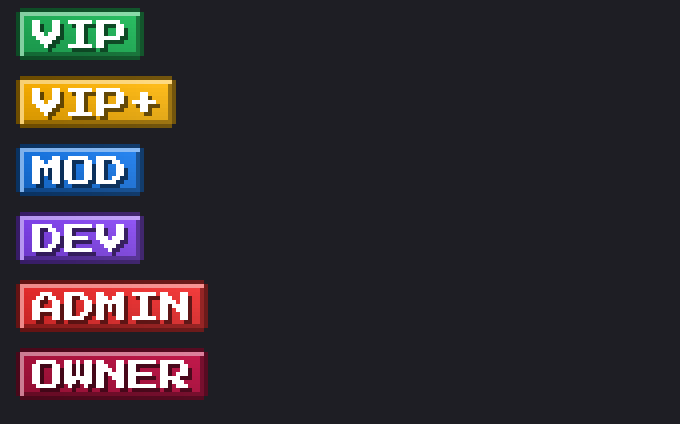
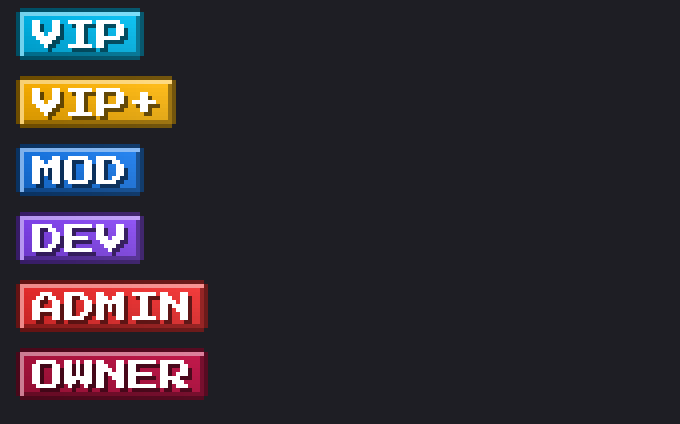
Core 1.9.0: /color con presets + placeholders; pack: VIP celeste

Changed region(s): [[0.0, 0.0, 0.2162, 0.1533]]

diff --git a/plugins/3y33Core/src/main/java/ar/com/tresyetres/core/Color.java b/plugins/3y33Core/src/main/java/ar/com/tresyetres/core/Color.java
@@ -1,0 +1,168 @@
+package ar.com.tresyetres.core;
+
+import org.bukkit.Bukkit;
+import org.bukkit.Material;
+import org.bukkit.Sound;
+import org.bukkit.configuration.file.YamlConfiguration;
+import org.bukkit.enchantments.Enchantment;
+import org.bukkit.entity.Player;
+import org.bukkit.event.EventHandler;
+import org.bukkit.event.Listener;
+import org.bukkit.event.inventory.InventoryClickEvent;
+import org.bukkit.event.inventory.InventoryDragEvent;
+import org.bukkit.inventory.Inventory;
+import org.bukkit.inventory.InventoryHolder;
+import org.bukkit.inventory.ItemFlag;
+import org.bukkit.inventory.ItemStack;
+import org.bukkit.inventory.meta.ItemMeta;
+import net.kyori.adventure.text.Component;
+import net.kyori.adventure.text.format.TextDecoration;
+import org.jetbrains.annotations.NotNull;
+
+import java.io.File;
+import java.io.IOException;
+import java.util.*;
+
+/** Color del nombre (solo VIP, VIP+ y staff). El tag de rango es siempre el mismo; esto cambia solo el degradado del nombre. */
+final class Color implements Listener {
+    record Preset(String id, String nombre, String a, String b, Material mat) { }
+
+    static final List<Preset> PRESETS = List.of(
+            new Preset("blanco", "Blanco", "#FFFFFF", "#D8D8D8", Material.WHITE_DYE),
+            new Preset("rojo", "Rojo", "#FF3B3B", "#FF9A9A", Material.RED_DYE),
+            new Preset("naranja", "Naranja", "#FF8C00", "#FFD27F", Material.ORANGE_DYE),
+            new Preset("dorado", "Dorado", "#F2A900", "#FFE07A", Material.YELLOW_DYE),
+            new Preset("lima", "Lima", "#7CD43A", "#D9FF8C", Material.LIME_DYE),
+            new Preset("verde", "Verde", "#1FA855", "#7CE8A5", Material.GREEN_DYE),
+            new Preset("celeste", "Celeste", "#00C8FF", "#B5FFFF", Material.LIGHT_BLUE_DYE),
+            new Preset("azul", "Azul", "#1670D9", "#6FB0FF", Material.BLUE_DYE),
+            new Preset("violeta", "Violeta", "#7B3FE4", "#C09CFF", Material.PURPLE_DYE),
+            new Preset("rosa", "Rosa", "#FF4FA3", "#FFB3D9", Material.PINK_DYE),
+            new Preset("atardecer", "Atardecer", "#FF512F", "#F09819", Material.ORANGE_DYE),
+            new Preset("oceano", "Océano", "#00C6FF", "#0072FF", Material.CYAN_DYE),
+            new Preset("aurora", "Aurora", "#00F5A0", "#7B3FE4", Material.GLOW_INK_SAC),
+            new Preset("fuego", "Fuego", "#F83600", "#FE8C00", Material.BLAZE_POWDER));
+
+    /** Color de rango por defecto (de mayor a menor), sale de un grupo de LuckPerms. */
+    private static final String[][] RANGOS = {
+            {"owner", "#A3123A", "#F0507A"}, {"admin", "#E02B2B", "#FF8A8A"}, {"dev", "#7B3FE4", "#C09CFF"},
+            {"moderador", "#1670D9", "#6FB0FF"}, {"vipplus", "#F2A900", "#FFE07A"}, {"vip", "#00C8FF", "#B5FFFF"}};
+
+    private final Core core;
+    private final File archivo;
+    private final Map<UUID, String> elegido = new HashMap<>();
+
+    Color(Core core) {
+        this.core = core;
+        archivo = new File(core.getDataFolder(), "colores.yml");
+        YamlConfiguration y = YamlConfiguration.loadConfiguration(archivo);
+        for (String k : y.getKeys(false)) {
+            try { elegido.put(UUID.fromString(k), y.getString(k)); } catch (IllegalArgumentException ignored) { }
+        }
+    }
+
+    private void guardar() {
+        YamlConfiguration y = new YamlConfiguration();
+        elegido.forEach((u, v) -> y.set(u.toString(), v));
+        try { y.save(archivo); } catch (IOException e) { core.getLogger().warning("No pude guardar colores.yml: " + e.getMessage()); }
+    }
+
+    private String[] rango(Player p) {
+        for (String[] r : RANGOS) if (p.hasPermission("group." + r[0])) return r;
+        return null;
+    }
+
+    boolean puede(Player p) { return rango(p) != null || p.hasPermission("tresyetres.color"); }
+
+    private Preset buscar(String id) {
+        for (Preset x : PRESETS) if (x.id().equals(id)) return x;
+        return null;
+    }
+
+    /** {inicio, fin} en #RRGGBB para los placeholders. */
+    String[] colores(Player p) {
+        String[] r = rango(p);
+        if (r == null && !p.hasPermission("tresyetres.color")) return new String[]{"#FFFFFF", "#FFFFFF"};
+        Preset pr = buscar(elegido.get(p.getUniqueId()));
+        if (pr != null) return new String[]{pr.a(), pr.b()};
+        if (r != null) return new String[]{r[1], r[2]};
+        return new String[]{"#FFFFFF", "#D8D8D8"};
+    }
+
+    // ------------------------------------------------------------- menu
+
+    private static final class Menu implements InventoryHolder {
+        @Override public @NotNull Inventory getInventory() { return Bukkit.createInventory(this, 9); }
+    }
+
+    private Component sin(Component c) { return c.decoration(TextDecoration.ITALIC, false); }
+
+    void abrir(Player p) {
+        if (!puede(p)) {
+            p.sendMessage(core.mm("<dark_gray>3y33 »</dark_gray> <white>El color del nombre es para <#00C8FF>VIP</#00C8FF> y <#F2A900>VIP+</#F2A900>. Preguntale al staff cómo conseguirlo."));
+            return;
+        }
+        Inventory inv = Bukkit.createInventory(new Menu(), 36, core.mm("<red>3y33</red> <dark_gray>»</dark_gray> <white>Color del nombre"));
+        ItemStack fondo = new ItemStack(Material.GRAY_STAINED_GLASS_PANE);
+        ItemMeta fm = fondo.getItemMeta();
+        fm.displayName(Component.text(" "));
+        fondo.setItemMeta(fm);
+        for (int i = 0; i < 36; i++) inv.setItem(i, fondo);
+        String actual = elegido.get(p.getUniqueId());
+        int[] slots = {10, 11, 12, 13, 14, 15, 16, 19, 20, 21, 22, 23, 24, 25};
+        for (int i = 0; i < PRESETS.size(); i++) {
+            Preset x = PRESETS.get(i);
+            ItemStack it = new ItemStack(x.mat());
+            ItemMeta m = it.getItemMeta();
+            m.displayName(sin(core.mm("<gradient:" + x.a() + ":" + x.b() + "><bold>" + x.nombre() + "</bold></gradient>")));
+            boolean sel = x.id().equals(actual);
+            m.lore(List.of(
+                    sin(core.mm("<gradient:" + x.a() + ":" + x.b() + ">" + p.getName() + "</gradient>")),
+                    Component.empty(),
+                    sin(core.mm(sel ? "<green>✔ Elegido" : "<gray>Click para elegir"))));
+            if (sel) { m.addEnchant(Enchantment.UNBREAKING, 1, true); m.addItemFlags(ItemFlag.HIDE_ENCHANTS); }
+            it.setItemMeta(m);
+            inv.setItem(slots[i], it);
+        }
+        ItemStack r = new ItemStack(Material.BARRIER);
+        ItemMeta rm = r.getItemMeta();
+        rm.displayName(sin(core.mm("<white>Volver al color de mi rango")));
+        rm.lore(List.of(sin(core.mm("<gray>Saca el color que elegiste"))));
+        r.setItemMeta(rm);
+        inv.setItem(31, r);
+        p.openInventory(inv);
+    }
+
+    @EventHandler
+    public void alClickear(InventoryClickEvent e) {
+        if (!(e.getView().getTopInventory().getHolder() instanceof Menu)) return;
+        e.setCancelled(true);
+        if (!(e.getWhoClicked() instanceof Player p) || e.getClickedInventory() != e.getView().getTopInventory()) return;
+        if (!puede(p)) { p.closeInventory(); return; }
+        int s = e.getSlot();
+        if (s == 31) {
+            elegido.remove(p.getUniqueId());
+            guardar();
+            p.playSound(p.getLocation(), Sound.UI_BUTTON_CLICK, 0.6f, 1f);
+            p.sendMessage(core.mm("<dark_gray>3y33 »</dark_gray> <white>Volviste al color de tu rango."));
+            abrir(p);
+            return;
+        }
+        int[] slots = {10, 11, 12, 13, 14, 15, 16, 19, 20, 21, 22, 23, 24, 25};
+        for (int i = 0; i < slots.length && i < PRESETS.size(); i++) {
+            if (slots[i] != s) continue;
+            Preset x = PRESETS.get(i);
+            elegido.put(p.getUniqueId(), x.id());
+            guardar();
+            p.playSound(p.getLocation(), Sound.ENTITY_EXPERIENCE_ORB_PICKUP, 0.6f, 1.4f);
+            p.sendMessage(core.mm("<dark_gray>3y33 »</dark_gray> <white>Tu nombre ahora es <gradient:" + x.a() + ":" + x.b() + ">" + p.getName() + "</gradient><white>."));
+            abrir(p);
+            return;
+        }
+    }
+
+    @EventHandler
+    public void alArrastrar(InventoryDragEvent e) {
+        if (e.getView().getTopInventory().getHolder() instanceof Menu) e.setCancelled(true);
+    }
+}

diff --git a/plugins/3y33Core/src/main/java/ar/com/tresyetres/core/Core.java b/plugins/3y33Core/src/main/java/ar/com/tresyetres/core/Core.java
@@ -38,6 +38,7 @@ public final class Core extends JavaPlugin implements Listener, TabCompleter {
     private Rtp rtp;
     private Editor editor;
     private Pvp pvp;
+    private Color color;
 
     @Override
     public void onEnable() {
@@ -53,8 +54,10 @@ public final class Core extends JavaPlugin implements Listener, TabCompleter {
         getServer().getPluginManager().registerEvents(editor, this);
         pvp = new Pvp(this);
         getServer().getPluginManager().registerEvents(pvp, this);
-        if (getServer().getPluginManager().getPlugin("PlaceholderAPI") != null) new PvpExpansion(this, pvp).register();
-        for (String c : List.of("reglas", "report", "reportes", "3y33core", "rtp", "editor", "pvp")) {
+        color = new Color(this);
+        getServer().getPluginManager().registerEvents(color, this);
+        if (getServer().getPluginManager().getPlugin("PlaceholderAPI") != null) new PvpExpansion(this, pvp, color).register();
+        for (String c : List.of("reglas", "report", "reportes", "3y33core", "rtp", "editor", "pvp", "color")) {
             Objects.requireNonNull(getCommand(c)).setExecutor(this);
             Objects.requireNonNull(getCommand(c)).setTabCompleter(this);
         }
@@ -122,6 +125,10 @@ public final class Core extends JavaPlugin implements Listener, TabCompleter {
             case "reglas" -> reglas(sender);
             case "rtp" -> {
                 if (sender instanceof Player jp) rtp.usar(jp);
+                else msg(sender, "<red>Solo jugadores.");
+            }
+            case "color" -> {
+                if (sender instanceof Player jp) color.abrir(jp);
                 else msg(sender, "<red>Solo jugadores.");
             }
             case "pvp" -> {

diff --git a/plugins/3y33Core/src/main/java/ar/com/tresyetres/core/PvpExpansion.java b/plugins/3y33Core/src/main/java/ar/com/tresyetres/core/PvpExpansion.java
@@ -8,8 +8,9 @@ import org.bukkit.entity.Player;
 final class PvpExpansion extends PlaceholderExpansion {
     private final Core core;
     private final Pvp pvp;
+    private final Color color;
 
-    PvpExpansion(Core core, Pvp pvp) { this.core = core; this.pvp = pvp; }
+    PvpExpansion(Core core, Pvp pvp, Color color) { this.core = core; this.pvp = pvp; this.color = color; }
 
     @Override public String getIdentifier() { return "3y33"; }
     @Override public String getAuthor() { return "3y33"; }
@@ -24,6 +25,8 @@ final class PvpExpansion extends PlaceholderExpansion {
         if (params.equalsIgnoreCase("pvp_rojo")) return pvp.tienePvp(p) ? "⚔" : "";
         if (params.equalsIgnoreCase("pvp_verde")) return pvp.tienePvp(p) ? "" : "⚔";
         if (params.equalsIgnoreCase("pvp_estado")) return pvp.tienePvp(p) ? "activado" : "desactivado";
+        if (params.equalsIgnoreCase("color_a")) return color.colores(p)[0];
+        if (params.equalsIgnoreCase("color_b")) return color.colores(p)[1];
         return null;
     }
 }

diff --git a/fuente/rangos.py b/fuente/rangos.py
@@ -9,7 +9,7 @@ ZIP = os.path.join(BASE, '..', 'java', '3y33-pack.zip')
 FUENTE = os.path.join(BASE, 'fuentes', 'PressStart2P.ttf')
 
 RANGOS = [  # id, texto, color 1, color 2 (casi planos: tags solidos)
-    ('vip', 'VIP', '#1FA855', '#2BBF63'),
+    ('vip', 'VIP', '#00AEE0', '#12C4F5'),
     ('vipplus', 'VIP+', '#F2A900', '#FFBE1F'),
     ('mod', 'MOD', '#1670D9', '#2A86F0'),
     ('dev', 'DEV', '#7B3FE4', '#9257F5'),
